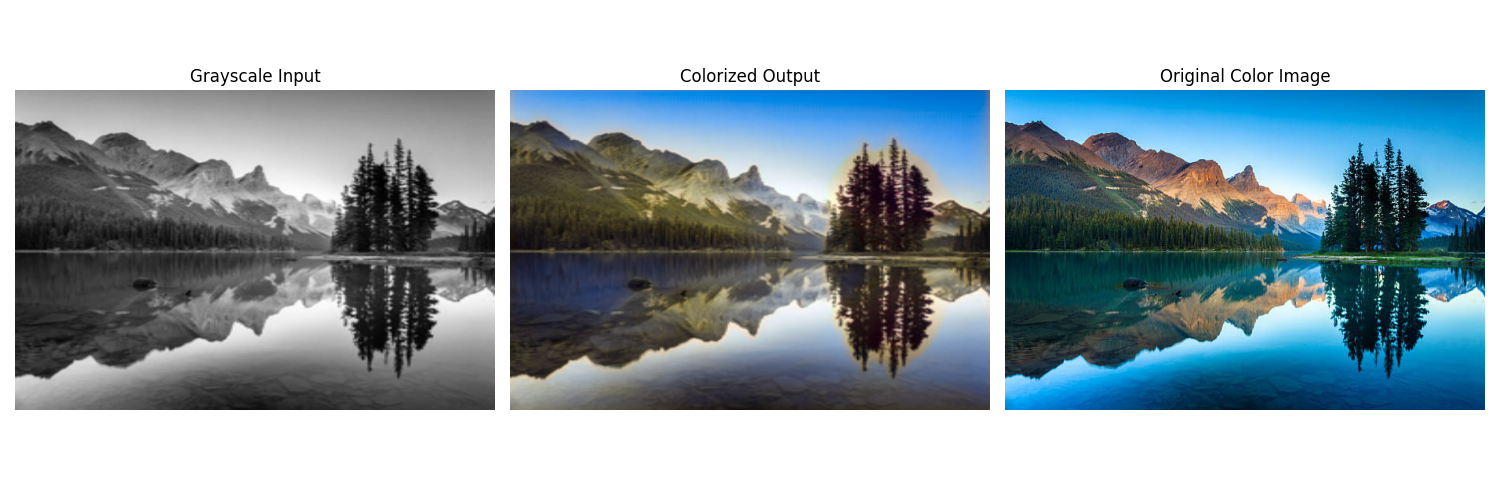
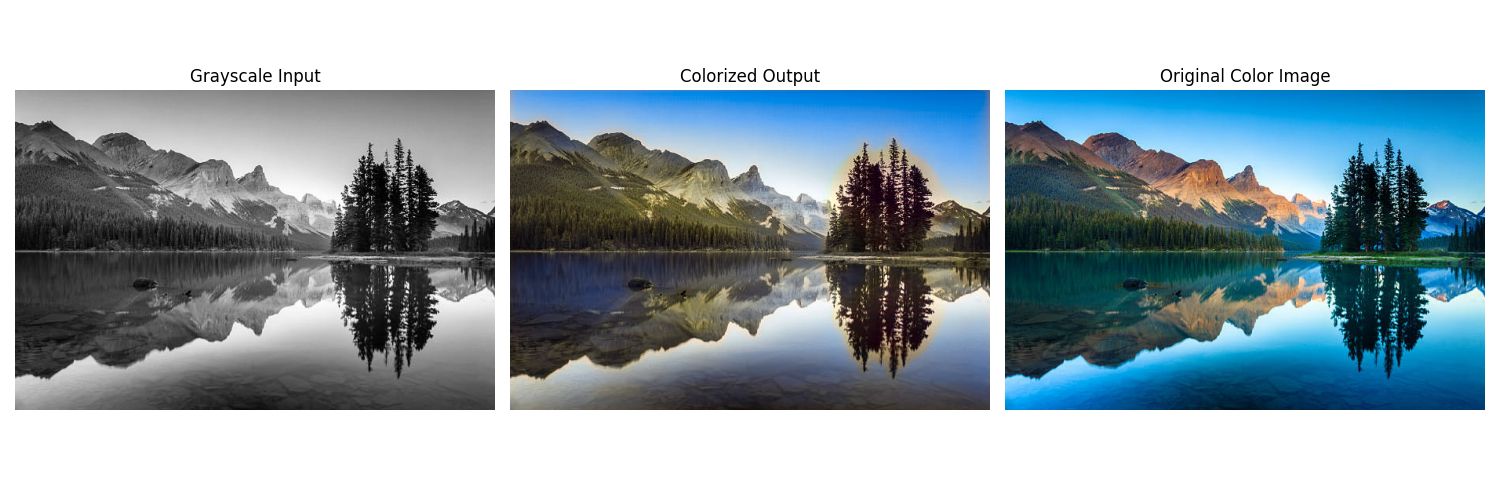
Minor changes
Just changed some of the training image sets for better overall representation of categories

diff --git a/colorization_testing.py b/colorization_testing.py
@@ -44,8 +44,10 @@ def postprocess_output(L_orig, ab_pred, orig_size):
     ab = ab_pred[0].cpu().numpy().transpose(1, 2, 0) * 128.0
 
     # Saturation and color temp adjustments
-    ab *= 2
-    ab[:, :, 1] -= 10
+    # Use saturation factor of 2 and color temp of -10 on blue/yellow with model 1
+    # Use saturation factor of 1.6 and no color temp adjustment on models 2/3.
+    ab *= 1.6
+    # ab[:, :, 1] -= 10
     # ab[:, :, 0] += 5
     
     # Resize ab channels to match original image resolution
